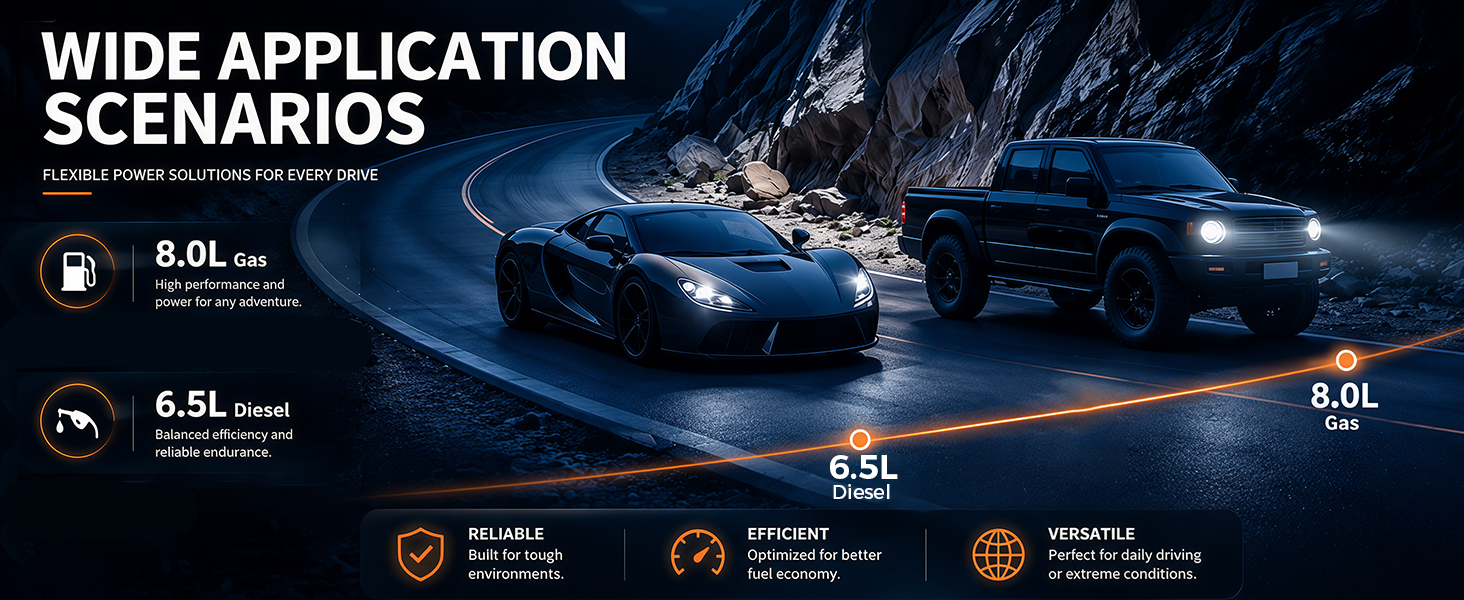
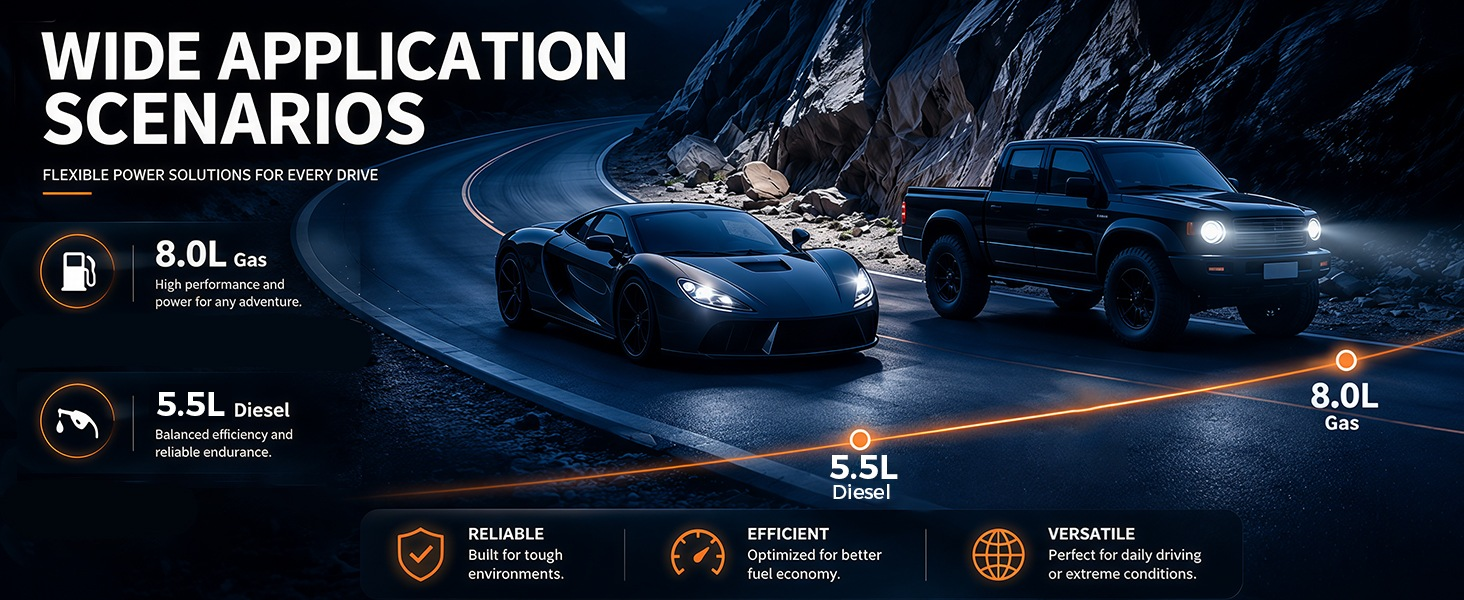
A3 specs 4000A/2000A, KB700 3.0L diesel, U23/U32 corrected images, calculator covers KB700 and skips out-of-stock models
- A3: PDP cards, product/support/collection copy and guides now 4000A peak / 2000A start
- A3 vehicle-fit image replaced with the corrected 8.0L/5.5L artwork
- KB700: specifications and starting images replaced (6.0L/3.0L), controls image order fixed,
  4.0L diesel references corrected to 3.0L across product, support and collection copy
- U23: vehicle-fit image corrected to 6.0L petrol / 3.0L diesel (glyph-level fix, layout preserved)
- U32: safeguards image replaced with the version without the UL/FCC certification claim
- Power planner: KB700 record added, every record now carries stock availability, and results
  never recommend an out-of-stock model (variant-level for A20 capacity rows)

diff --git a/assets/suntneew-power-calculator-core.js b/assets/suntneew-power-calculator-core.js
@@ -39,6 +39,7 @@
     { scenario: 'jump', key: 'jump-u32', id: 'u32-10000', model: 'U32', variant: '10,000mAh', voltage: '12v', gasoline: 6.5, diesel: 3.5, priority: { compact: 1, display: 0, charging: 2, reserve: 3 } },
     { scenario: 'jump', key: 'jump-a20', id: 'a20-12000', model: 'A20', variant: '12,000mAh variant', voltage: '12v', gasoline: 7, diesel: 4, priority: { compact: 3, display: 3, charging: 1, reserve: 2 } },
     { scenario: 'jump', key: 'jump-a3', id: 'a3-16000', model: 'A3', variant: '16,000mAh', voltage: '12v', gasoline: 8, diesel: 5, priority: { compact: 4, display: 2, charging: 0, reserve: 1 } },
+    { scenario: 'jump', key: 'jump-kb700', id: 'kb700-7200', model: 'KB700 Fan Jump Starter', variant: '7,200mAh / 1,000A peak', voltage: '12v', gasoline: 6, diesel: 3, priority: { compact: 2, display: 4, charging: 2, reserve: 3 } },
     { scenario: 'jump', key: 'jump-a20', id: 'a20-16000', model: 'A20', variant: '16,000mAh variant', voltage: '12v', gasoline: 8, diesel: 5, priority: { compact: 5, display: 3, charging: 1, reserve: 0 } },
     { scenario: 'home', key: 'home-wl5a', id: 'wl5a', model: 'SuntNeew WL5A', architecture: 'low', capacityWh: 5120, maxUnits: 9, maxSystemOutputW: 12000 },
     { scenario: 'home', key: 'home-wl10b', id: 'wl10b', model: 'SuntNeew WL10B', architecture: 'low', capacityWh: 10240, maxUnits: 9, maxSystemOutputW: 12000 },
@@ -67,6 +68,12 @@
     };
   }
 
+  // Out-of-stock records stay in the catalog so the input ranges stay stable, but they are
+  // never recommended: results only ever show products that are currently available.
+  function isAvailable(product) {
+    return !product || product.available !== false;
+  }
+
   function normalizeRecord(record) {
     if (!record || record.enabled === false) return null;
 
@@ -75,7 +82,8 @@
       scenario: scenario,
       key: String(record.key || ''),
       id: String(record.id || record.key || ''),
-      model: String(record.model || record.key || '')
+      model: String(record.model || record.key || ''),
+      available: !(record.available === false || record.available === 'false')
     };
 
     if (!common.key || !common.id || !common.model) return null;
@@ -320,8 +328,10 @@
       dimensions.heightMm <= space.heightMm;
   }
 
-  function rvProductsForFit(fit, seriesCount, space) {
+  function rvProductsForFit(fit, seriesCount, space, options) {
+    var includeUnavailable = Boolean(options && options.includeUnavailable);
     return catalog.rv.filter(function (product) {
+      if (!includeUnavailable && !isAvailable(product)) return false;
       if (product.maxSeries < seriesCount) return false;
       if (space) return productFitsSpace(product, space);
       if (fit === 'group24' || fit === 'group31') return product.fit === fit;
@@ -351,11 +361,13 @@
     };
   }
 
-  function homeProductsForArchitecture(architecture) {
+  function homeProductsForArchitecture(architecture, options) {
+    var includeUnavailable = Boolean(options && options.includeUnavailable);
+    var inRange = function (product) { return includeUnavailable || isAvailable(product); };
     if (architecture === 'low' || architecture === 'high') {
-      return catalog.home.filter(function (product) { return product.architecture === architecture; });
+      return catalog.home.filter(function (product) { return product.architecture === architecture && inRange(product); });
     }
-    return catalog.home.slice();
+    return catalog.home.filter(inRange);
   }
 
   function rvCapability(product, seriesCount) {
@@ -572,7 +584,12 @@
     var space = normalizeRvSpace(input || {});
     var products = rvProductsForFit(fit, seriesCount, space);
 
-    if (!products.length) return supportResult('rv', snTranslate('No verified RV product is configured for the selected footprint.'));
+    if (!products.length) {
+      var configuredRv = rvProductsForFit(fit, seriesCount, space, { includeUnavailable: true });
+      return supportResult('rv', snTranslate(configuredRv.length
+        ? 'No in-stock RV battery matches the selected footprint right now. Contact us for current availability.'
+        : 'No verified RV product is configured for the selected footprint.'));
+    }
     if (!loadMetrics.activeCount) return invalidResult('rv', snTranslate('Select at least one appliance.'));
     if (!loadMetrics.valid) return invalidResult('rv', snTranslate('Use positive load values and run times from 0.1 to 24 hours.'));
     if (backupDays < MIN_RV_BACKUP_DAYS || backupDays > MAX_RV_BACKUP_DAYS) {
@@ -649,9 +666,10 @@
 
     var factor = environmentFactor(environment);
     var planningLiters = round(engineLiters * factor, 2);
-    var candidates = catalog.jump.filter(function (product) {
+    var configuredCandidates = catalog.jump.filter(function (product) {
       return product.voltage === voltage && product[fuel] >= planningLiters;
-    }).map(function (product) {
+    });
+    var candidates = configuredCandidates.filter(isAvailable).map(function (product) {
       return Object.assign({}, product, {
         score: asNumber(product.priority[priority], 3),
         coverageOverage: round(product[fuel] - planningLiters, 2)
@@ -660,7 +678,11 @@
       return a.score - b.score || a.coverageOverage - b.coverageOverage;
     });
 
-    if (!candidates.length) return supportResult('jump', snTranslate('The configured starting coverage table is incomplete.'));
+    if (!candidates.length) {
+      return supportResult('jump', snTranslate(configuredCandidates.length
+        ? 'No in-stock SuntNeew jump starter currently covers this engine size. Contact us for current availability.'
+        : 'The configured starting coverage table is incomplete.'));
+    }
 
     var match = candidates[0];
     var alternate = candidates.find(function (candidate) { return candidate.id !== match.id; });
@@ -709,7 +731,12 @@
     if (architecture !== 'low' && architecture !== 'high') architecture = 'auto';
     var products = homeProductsForArchitecture(architecture);
 
-    if (!products.length) return supportResult('home', snTranslate('No verified home battery is configured for the selected architecture.'));
+    if (!products.length) {
+      var configuredHome = homeProductsForArchitecture(architecture, { includeUnavailable: true });
+      return supportResult('home', snTranslate(configuredHome.length
+        ? 'No in-stock home battery matches the selected architecture right now. Contact us for current availability.'
+        : 'No verified home battery is configured for the selected architecture.'));
+    }
     if (!loadMetrics.activeCount) return invalidResult('home', snTranslate('Select at least one essential load.'));
     if (!loadMetrics.valid) return invalidResult('home', snTranslate('Use positive load values and run times from 0.1 to 24 hours.'));
     if (backupHours < MIN_HOME_BACKUP_HOURS || backupHours > MAX_HOME_BACKUP_HOURS) {

diff --git a/assets/suntneew-power-calculator.js b/assets/suntneew-power-calculator.js
@@ -87,7 +87,8 @@
           reserve: record.dataset.productPriorityReserve
         },
         architecture: record.dataset.productArchitecture,
-        maxSystemOutputW: record.dataset.productMaxSystemOutputW
+        maxSystemOutputW: record.dataset.productMaxSystemOutputW,
+        available: record.dataset.productAvailable
       };
     }));
 
